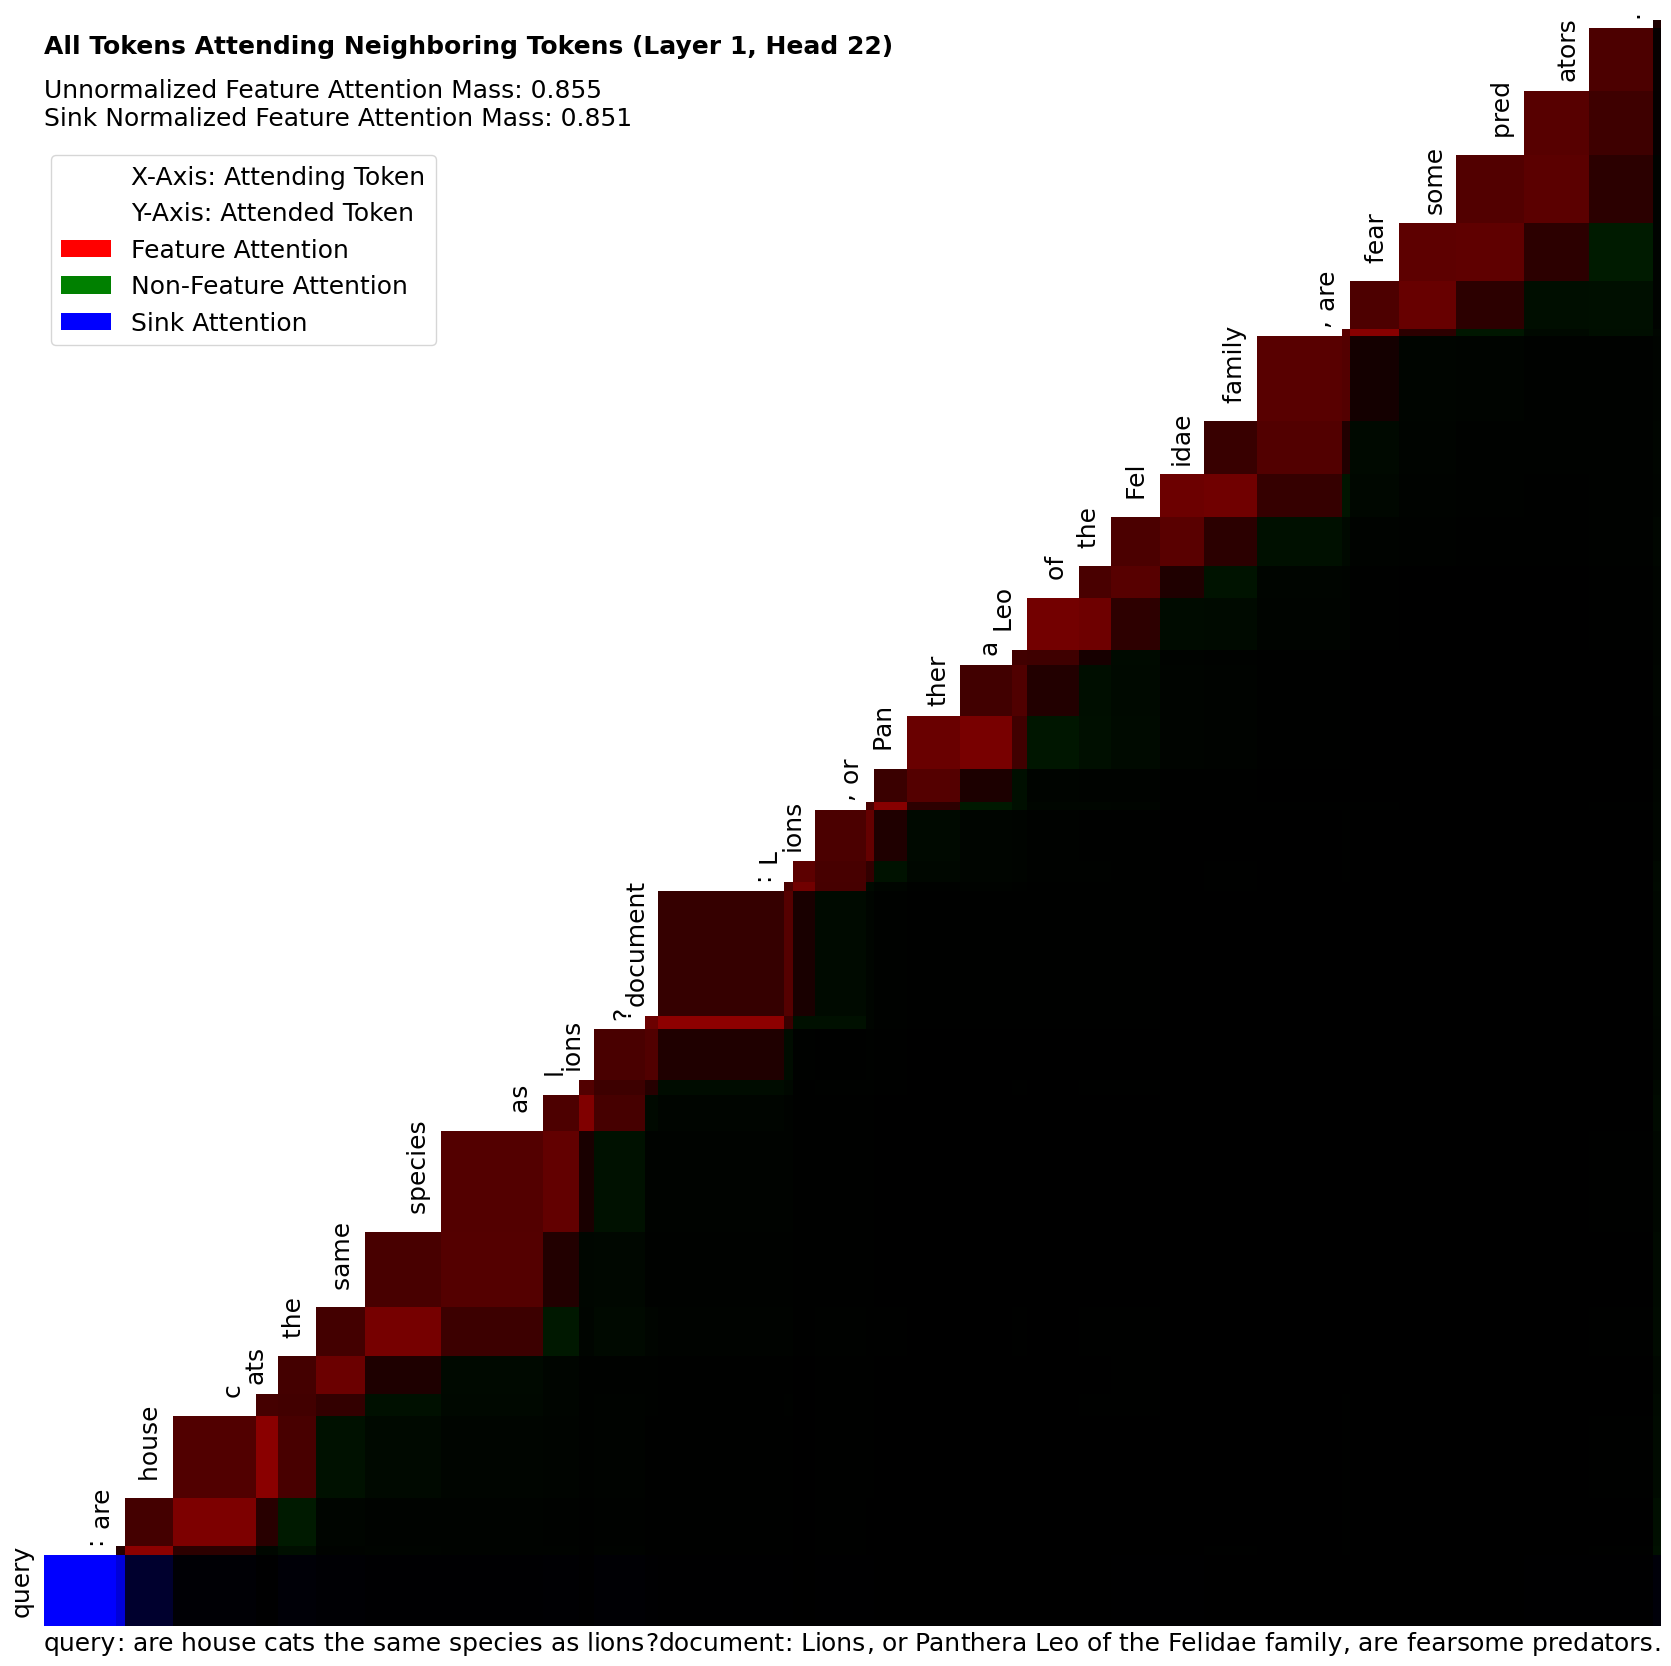
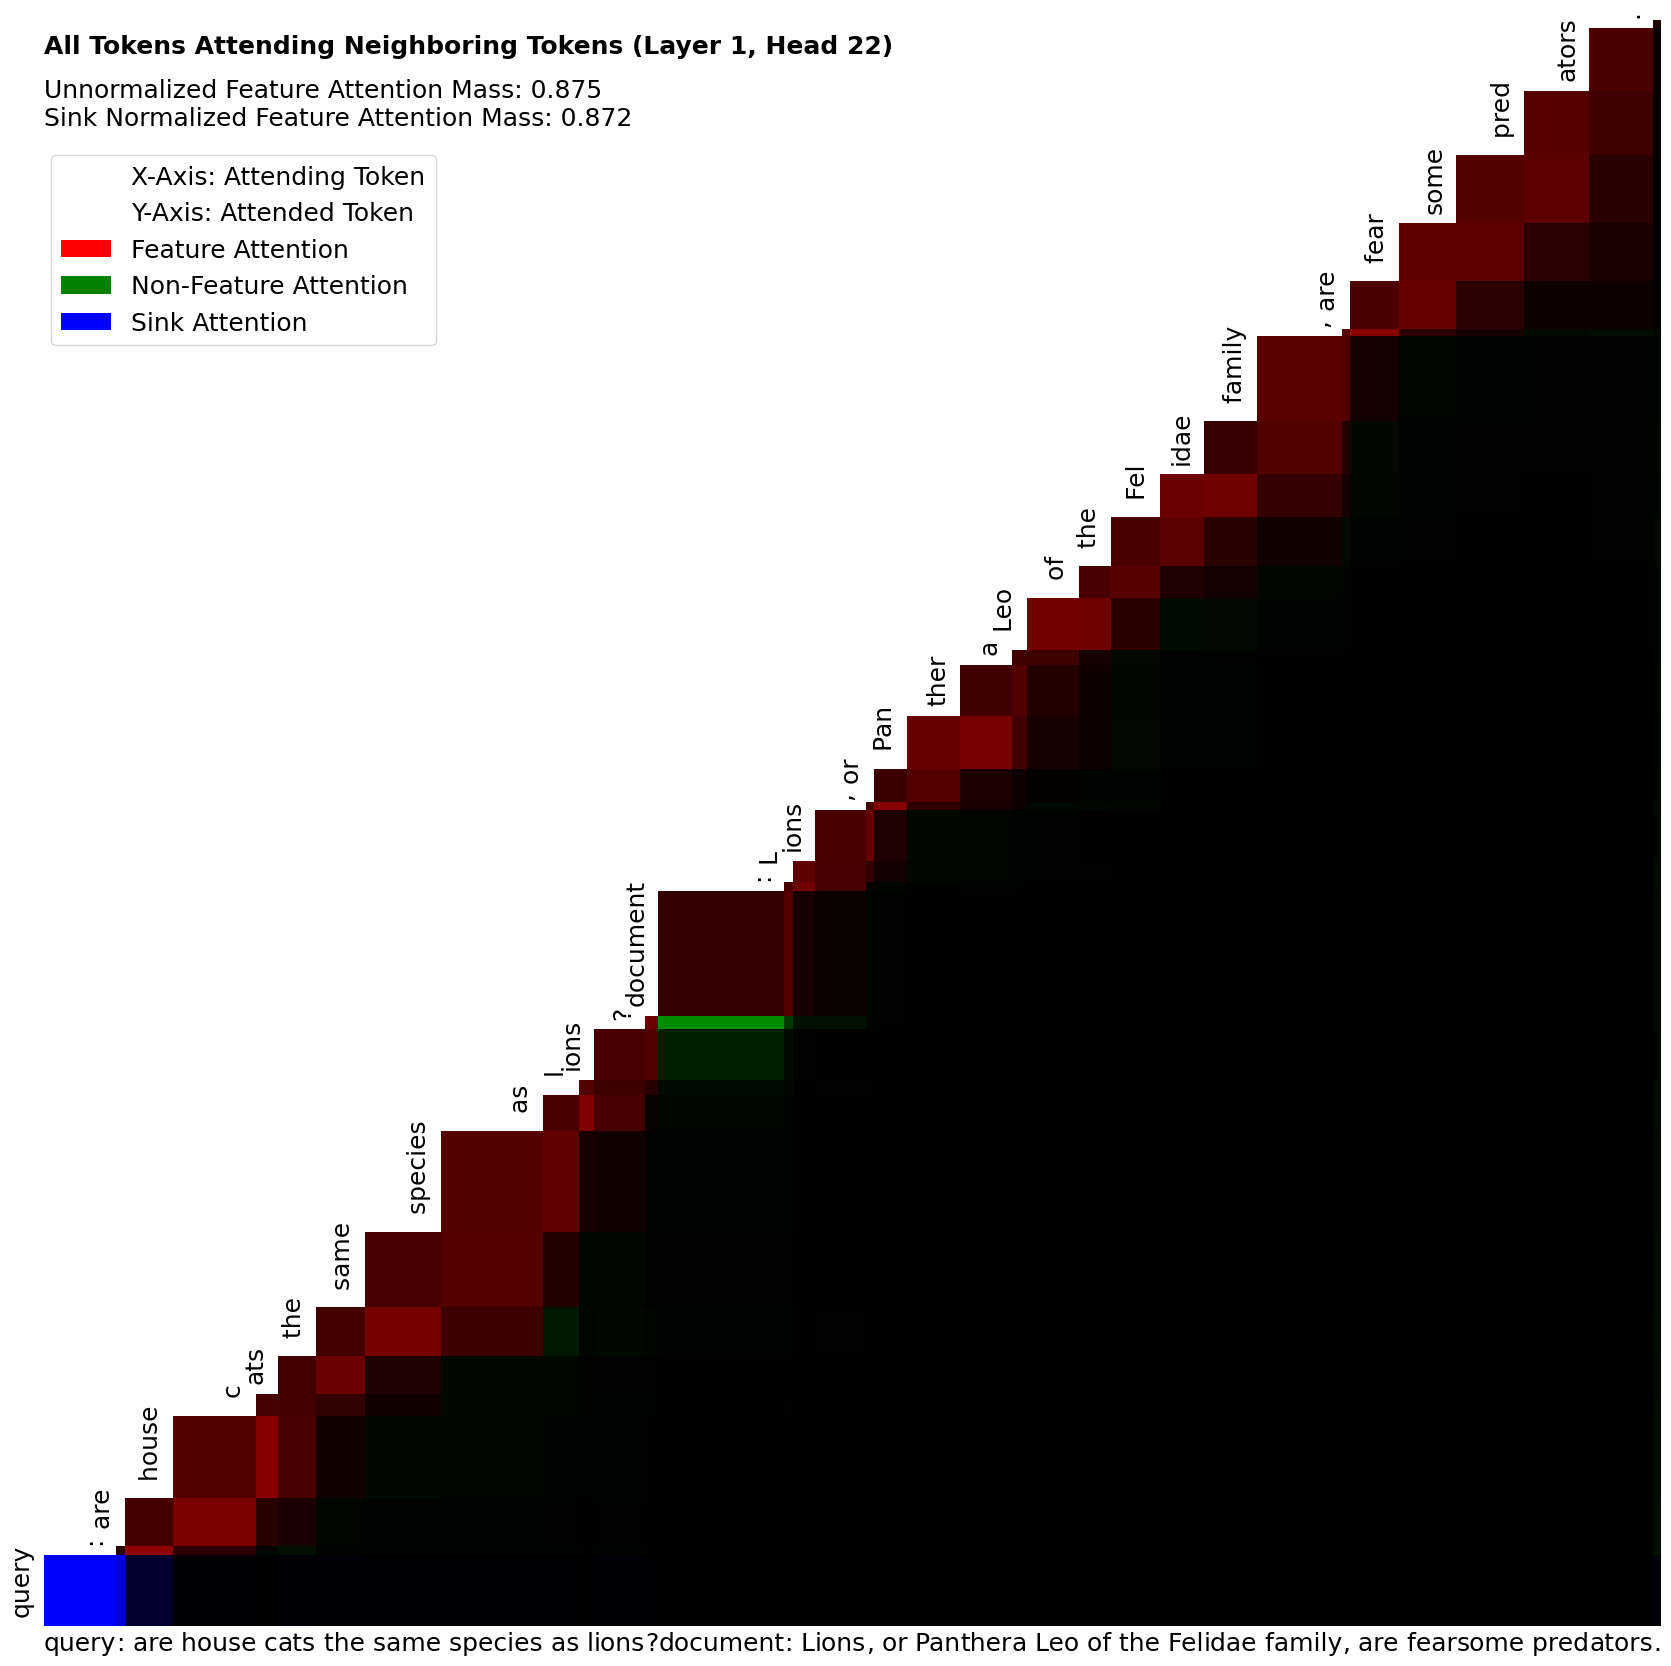
picked first round of experiment features

Changed region(s): [[0.3734, 0.593, 0.4668, 0.6555], [0.9336, 0.1248, 0.9958, 0.1873], [0.1556, 0.8739, 0.1867, 0.9364]]

diff --git a/main.py b/main.py
@@ -7,14 +7,48 @@ import tag
 from heatmap import attention_heatmap, transformer_heatmap
 import attention_features
 
-num_rel_pairs = 2
-num_nrel_pairs = 1
+num_rel_pairs = 2500
+num_nrel_pairs = 500
 
 def plot_feature_attention_mass():
     features = [
         "Query Tokens Attending Query Tokens",
         "Document Tokens Attending Query Tokens",
-        "Document Tokens Attending Document Tokens"
+        "Document Tokens Attending Document Tokens",
+
+        "Rare Document Tokens Attending Word Identical Query Tokens",
+        "Rare Document Tokens Attending Synonymous Query Tokens",
+        "Rare Tokens Attending Different Word Group Word Identical Tokens",
+        "Rare Tokens Attending Different Word Group Synonymous Tokens",
+
+        "Rare Document Tokens Attending Rare Word Identical Query Tokens",
+        "Rare Document Tokens Attending Rare Synonymous Query Tokens",
+        "Rare Tokens Attending Rare Different Word Group Word Identical Tokens",
+        "Rare Tokens Attending Rare Different Word Group Synonymous Tokens",
+
+        "Very Rare Document Tokens Attending Very Rare Word Identical Query Tokens",
+        "Very Rare Document Tokens Attending Very Rare Synonymous Query Tokens",
+        "Very Rare Tokens Attending Very Rare Different Word Group Word Identical Tokens",
+        "Very Rare Tokens Attending Very Rare Different Word Group Synonymous Tokens",
+
+        "All Tokens Attending Common Tokens",
+        "Common Tokens Attending All Tokens",
+
+        "Noun Tokens Attending Neighboring Verb Tokens",
+        "Noun Tokens Attending Neighboring Adjective Tokens",
+        "Noun Tokens Attending Neighboring Adverb Tokens",
+
+        "Verb Tokens Attending Neighboring Noun Tokens",
+        "Verb Tokens Attending Neighboring Adjective Tokens",
+        "Verb Tokens Attending Neighboring Adverb Tokens",
+
+        "Adjective Tokens Attending Neighboring Noun Tokens",
+        "Adjective Tokens Attending Neighboring Verb Tokens",
+        "Adjective Tokens Attending Neighboring Adverb Tokens",
+
+        "Adverb Tokens Attending Neighboring Noun Tokens",
+        "Adverb Tokens Attending Neighboring Verb Tokens",
+        "Adverb Tokens Attending Neighboring Adjective Tokens",
     ]
 
     feature_attention_mass_table = {

diff --git a/attention_features.py b/attention_features.py
@@ -37,7 +37,10 @@ attention_feature_groups = {
             tag.filter_first(tag.is_pos([ "VERB", "AUX" ]))
         ]),
         AttentionFeature(attending="Adjective", filters=[
-            tag.filter_first(tag.is_pos([ "ADJ", "ADP", "ADV" ]))
+            tag.filter_first(tag.is_pos([ "ADJ" ]))
+        ]),
+        AttentionFeature(attending="Adverb", filters=[
+            tag.filter_first(tag.is_pos([ "ADV" ]))
         ])
     ],
     "attended_pos": [
@@ -49,7 +52,10 @@ attention_feature_groups = {
             tag.filter_second(tag.is_pos([ "VERB", "AUX" ]))
         ]),
         AttentionFeature(attended="Adjective", filters=[
-            tag.filter_second(tag.is_pos([ "ADJ", "ADP", "ADV" ]))
+            tag.filter_second(tag.is_pos([ "ADJ" ]))
+        ]),
+        AttentionFeature(attended="Adverb", filters=[
+            tag.filter_second(tag.is_pos([ "ADV" ]))
         ])
     ],
     "attending_rarity": [
@@ -90,8 +96,17 @@ attention_feature_groups = {
     ],
     "location": [
         AttentionFeature(),
+        AttentionFeature(attended="Adjacent", filters=[
+            tag.filter_combination(tag.are_adjacent)
+        ]),
         AttentionFeature(attended="Neighboring", filters=[
             tag.filter_combination(tag.are_neighbors)
+        ]),
+        AttentionFeature(attended="Same Word Group", filters=[
+            tag.filter_combination(tag.are_same_word_group)
+        ]),
+        AttentionFeature(attended="Different Word Group", filters=[
+            tag.filter_combination(tag.are_not(tag.are_same_word_group))
         ])
     ]
 }

diff --git a/tag.py b/tag.py
@@ -209,7 +209,7 @@ def are_adjacent(first_tagged_token: TaggedToken, second_tagged_token: TaggedTok
     return abs(first_tagged_token.index - second_tagged_token.index) == 1
 
 def are_neighbors(first_tagged_token: TaggedToken, second_tagged_token: TaggedToken):
-    return abs(first_tagged_token.index - second_tagged_token.index) <= 2
+    return abs(first_tagged_token.numeric_tags["word_index"] - second_tagged_token.numeric_tags["word_index"]) <= 2
 
 def are_same_word_group(first_tagged_token: TaggedToken, second_tagged_token: TaggedToken):
     return (
